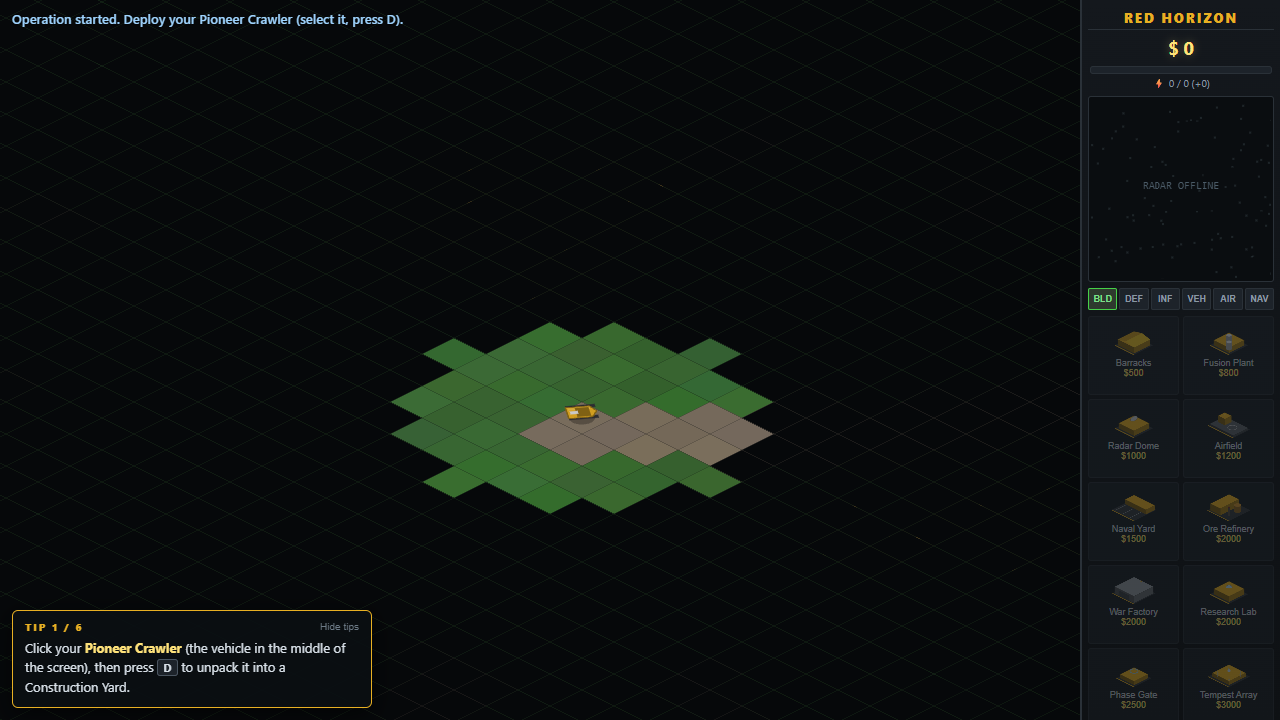
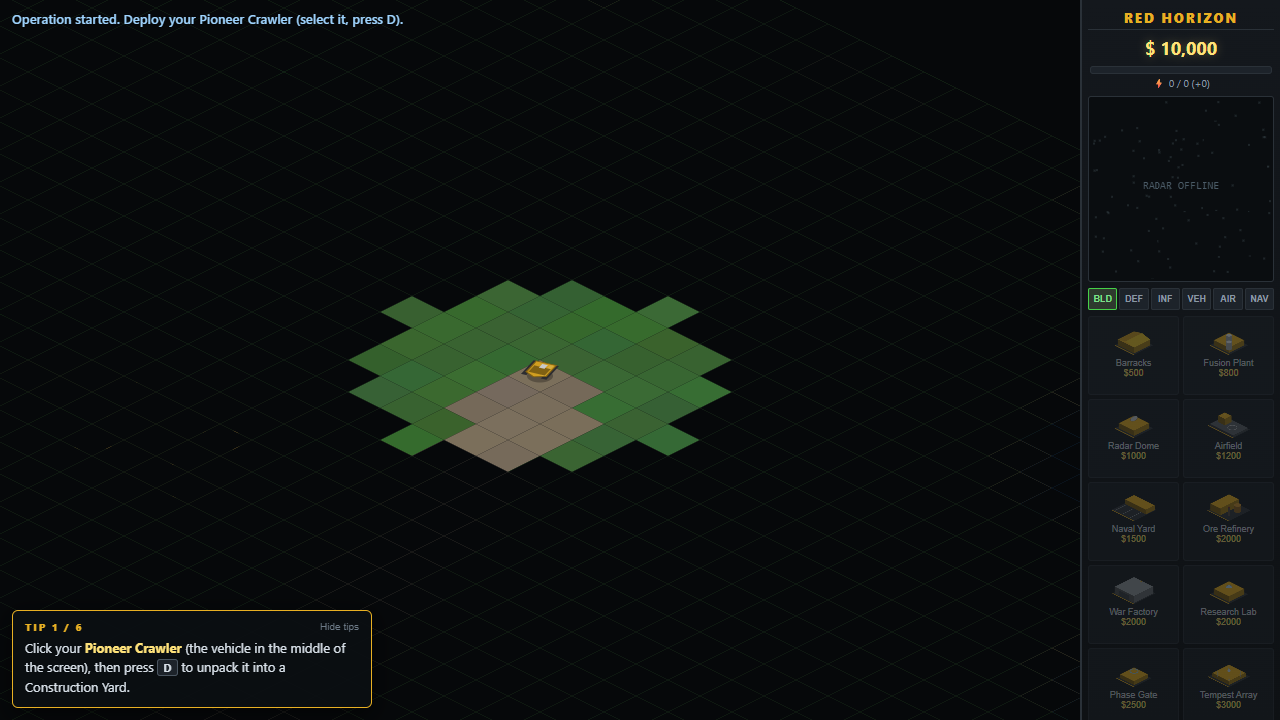
Show starting credits in the sidebar instead of $ 0
The credits ticker only redraws when the value changes, so the label kept its placeholder until the first purchase.

Changed region(s): [[0.2812, 0.3972, 0.625, 0.7333], [0.9062, 0.0611, 0.9688, 0.0917]]

diff --git a/src/ui/hud.ts b/src/ui/hud.ts
@@ -82,7 +82,7 @@ export class Hud {
     const brand = el('div', 'brand', 'RED HORIZON');
     this.root.appendChild(brand);
 
-    this.creditsEl = el('div', 'credits', '$ 0');
+    this.creditsEl = el('div', 'credits', `$ ${this.shownCredits.toLocaleString()}`);
     this.root.appendChild(this.creditsEl);
 
     const powerWrap = el('div', 'power-wrap');
